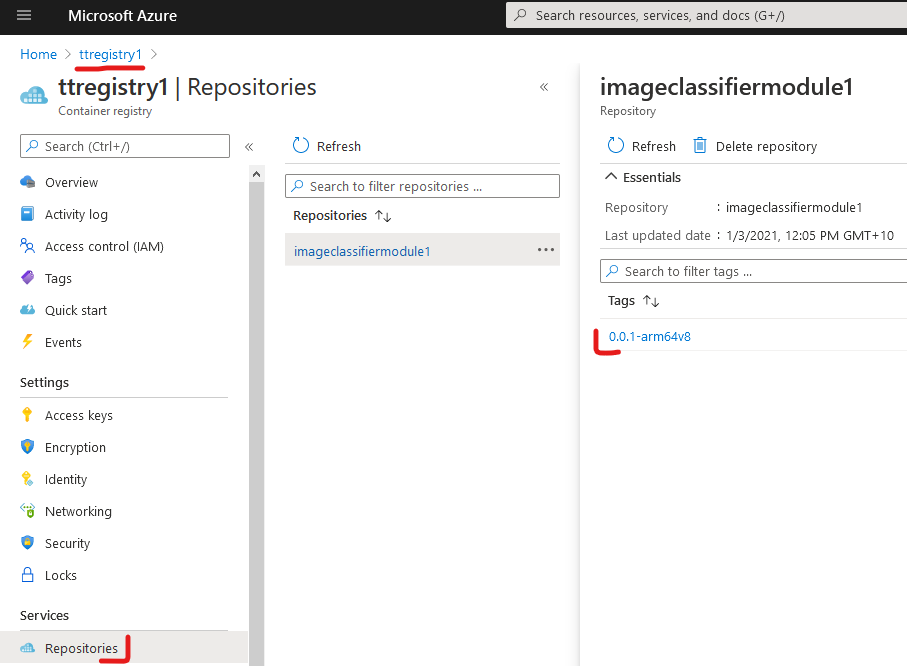
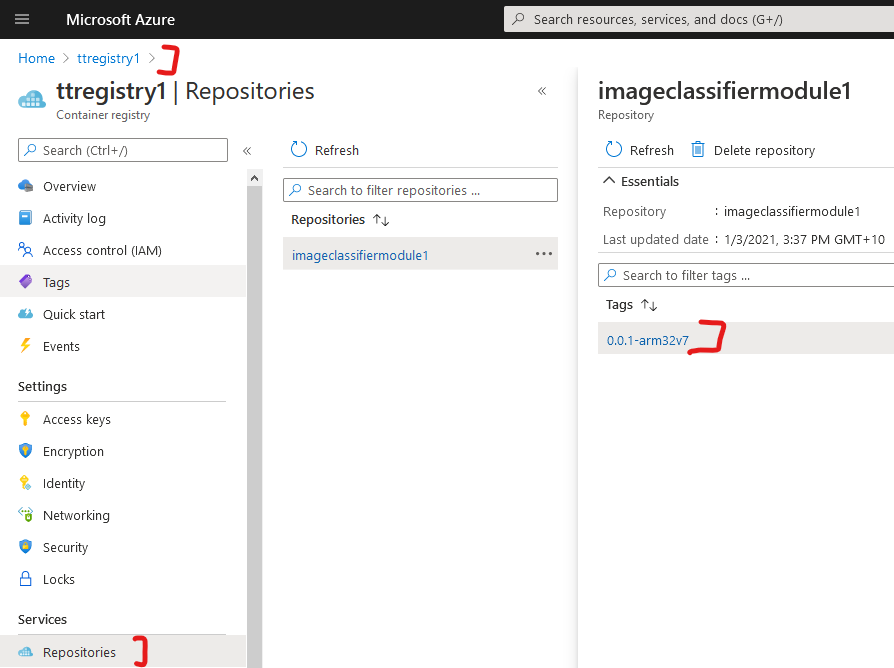
Fixing 64-bit vs 32-bit

diff --git a/README.md b/README.md
@@ -409,14 +409,19 @@ Based on [Create a new module project](https://docs.microsoft.com/en-us/azure/io
       armv7l
       ```
       If it's *armv7l* then the OS is 32-bit
-   2. In Command palette find *Azure IoT Edge: Set Default Target Platform for Edge Solution* and set it to, for RPi 4, to *arm64v8*
-6. Open *deployment.template.json* and examine *moduleContent->$edgeAgent->properties.desired->modules*
+   2. In Command palette find *Azure IoT Edge: Set Default Target Platform for Edge Solution* and set it to, for RPi 4, to *arm32v7*
+6. In Dockerfile.arm32v7 change the first line from 
+   `FROM mcr.microsoft.com/dotnet/core/sdk:3.1-buster-arm32v7 AS build-env`
+   to 
+   `FROM mcr.microsoft.com/dotnet/core/sdk:3.1-buster AS build-env`\
+   More details in [github](https://github.com/Azure/iotedge/issues/3353). 
+7. Open *deployment.template.json* and examine *moduleContent->$edgeAgent->properties.desired->modules*
    There will be to modules there, because *SimulatedTemperatureSensor* is added by default to template solutions.\
    ![Two default modules](/help/images/CreatingModule_2_modules.png "Two default modules") 
-7. Delete *SimulatedTemperatureSensor* entries from *deployment.debug.template.json* and from *deployment.template.json*. Delete it from modules and routes - 4 elements need to be deleted.\
+8. Delete *SimulatedTemperatureSensor* entries from *deployment.debug.template.json* and from *deployment.template.json*. Delete it from modules and routes - 4 elements need to be deleted.\
    ![Deleting SimulatedTemperatureSenson](/help/images/CreatingModule_deleting_SimulatedTemperatureSensor.png "Deleting SimulatedTemperatureSensor")
-8. Have a look at the C# source code: *raspberry_pi_project_1\module1\ImageClassifierSolution1\modules\ImageClassifierModule1\Program.cs* and follow [Review the sample code](https://docs.microsoft.com/en-us/azure/iot-edge/tutorial-develop-for-linux?view=iotedge-2018-06#review-the-sample-code)
-9.  Add a direct method for easy testing. At the end of the `Init` method add
+9.  Have a look at the C# source code: *raspberry_pi_project_1\module1\ImageClassifierSolution1\modules\ImageClassifierModule1\Program.cs* and follow [Review the sample code](https://docs.microsoft.com/en-us/azure/iot-edge/tutorial-develop-for-linux?view=iotedge-2018-06#review-the-sample-code)
+10. Add a direct method for easy testing. At the end of the `Init` method add
    ```c#
       await ioTHubModuleClient.SetMethodHandlerAsync("alive", AliveHandler, ioTHubModuleClient);
    }
@@ -432,6 +437,7 @@ Based on [Create a new module project](https://docs.microsoft.com/en-us/azure/io
       return Task.FromResult(response);
    }
    ``` 
+   
 ## Build, push, deploy, test
 
 1. Sign into Docker
@@ -453,33 +459,47 @@ Based on [Create a new module project](https://docs.microsoft.com/en-us/azure/io
 2. Right-click `deployment.template.json` and select build and push.\
    ![Build and push](/help/images/CreatingModule_builld_and_push.png "Build and push")\
    This process is slow when it runs for the first time.\
+   If the process errors out with `#11 1.679 A fatal error occurred, the folder [/usr/share/dotnet/host/fxr] does not contain any version-numbered child folders` then it's likely it is a issue with build machine vs target machien architecture. Check architecture steps above and [github](https://github.com/Azure/iotedge/issues/3353). 
    The terminal output looks like this:
    ```powershell
-   PS C:\dev\raspberry_pi_project_1\module1\ImageClassifierSolution1> docker build  --rm -f "c:\dev\raspberry_pi_project_1\module1\ImageClassifierSolution1\modules\ImageClassifierModule1\Dockerfile.arm64v8" -t ttregistry1.azurecr.io/imageclassifiermodule1:0.0.1-arm64v8 "c:\dev\raspberry_pi_project_1\module1\ImageClassifierSolution1\modules\ImageClassifierModule1" ; if ($?) { docker push ttregistry1.azurecr.io/imageclassifiermodule1:0.0.1-arm64v8 }
-   [+] Building 333.6s (16/16) FINISHED
-   => [internal] load build definition from Dockerfile.arm64v8                                       0.2s 
-   => => transferring dockerfile: 453B                                                               0.0s 
-   => [internal] load .dockerignore                                                                  0.2s 
-   => => transferring context: 56B                                                                   0.0s 
-   => [internal] load metadata for mcr.microsoft.com/dotnet/core/runtime:3.1-buster-slim-arm64v8     7.4s 
-   => [internal] load metadata for mcr.microsoft.com/dotnet/core/sdk:3.1-buster-arm64v              83.6s 
-   => [stage-1 1/4] FROM mcr.microsoft.com/dotnet/core/runtime:3.1-buster-slim-arm64v8@sha256:5e2794087a04b4c7db331cad5c394c07aa12b54895a32aa71f8789075df2afdc        73.2s 
-   => => resolve mcr.microsoft.com/dotnet/core/runtime:3.1-buster-slim-arm64v8@sha256:5e2794087a04b4c7db331cad5c394c07aa12b54895a32aa71f8789075df2afdc                 0.0s 
-   => => sha256:5e2794087a04b4c7db331cad5c394c07aa12b54895a32aa71f8789075df2afdc 1.16kB / 1.16kB     0.0s 
-   (...)
-   => => extracting sha256:c5a03329e69979c6a5979123a157a937837a969677bf126e4d1ededb39300295          0.8s 
-   => [stage-1 2/4] WORKDIR /app                                                                     2.0s 
-   => [build-env 2/6] WORKDIR /app                                                                   1.7s 
-   => [build-env 3/6] COPY *.csproj ./                                                               0.2s 
-   => [build-env 4/6] RUN dotnet restore                                                           132.8s 
-   => [build-env 5/6] COPY . ./                                                                      0.1s 
-   => [build-env 6/6] RUN dotnet publish -c Release -o out                                          98.1s 
-   => [stage-1 3/4] COPY --from=build-env /app/out ./                                                0.2s 
-   => [stage-1 4/4] RUN useradd -ms /bin/bash moduleuser                                             0.6s
-   => exporting to image                                                                             0.2s 
-   => => exporting layers                                                                            0.2s
-   => => writing image sha256:9c1bd97151d1f71a719c3c609a8a1e5c5de9d28140c4aecdfdecaf6d2d388211       0.0s 
-   => => naming to ttregistry1.azurecr.io/imageclassifiermodule1:0.0.1-arm64v8                       0.0s 
+   PS C:\dev\raspberry_pi_project_1\module1\ImageClassifierSolution1> docker build  --rm -f "c:\dev\raspberry_pi_project_1\module1\ImageClassifierSolution1\modules\ImageClassifierModule1\Dockerfile.arm32v7" -t ttregistry1.azurecr.io/imageclassifiermodule1:0.0.1-arm32v7 "c:\dev\raspberry_pi_project_1\module1\ImageClassifierSolution1\modules\ImageClassifierModule1" ; if ($?) { docker push ttregistry1.azurecr.io/imageclassifiermodule1:0.0.1-arm32v7 }
+   [+] Building 318.9s (16/16) FINISHED
+   => [internal] load build definition from Dockerfile.arm32v7                                              0.1s 
+   => => transferring dockerfile: 445B                                                                      0.1s 
+   => [internal] load .dockerignore                                                                         0.1s 
+   => => transferring context: 34B                                                                          0.0s 
+   => [internal] load metadata for mcr.microsoft.com/dotnet/core/runtime:3.1-buster-slim-arm32v7            1.3s 
+   => [internal] load metadata for mcr.microsoft.com/dotnet/core/sdk:3.1-buster                             2.2s 
+   => [internal] load build context                                                                         0.1s 
+   => => transferring context: 869B                                                                         0.0s 
+   => [build-env 1/6] FROM mcr.microsoft.com/dotnet/core/sdk:3.1-buster@sha256:27df774804cbf186cd05d5d997078765aec2f78ca6f63499bd06a698e99ea46a  71.5s 
+   => => resolve mcr.microsoft.com/dotnet/core/sdk:3.1-buster@sha256:27df774804cbf186cd05d5d997078765aec2f78ca6f63499bd06a698e99ea46a             0.0s 
+   => => sha256:c0afb8e68e0bcdc1b6e05acaa713a6fe0d818086c596bd1ad99133665c4efe63 10.00MB / 10.00MB          7.5s 
+   => => sha256:27df774804cbf186cd05d5d997078765aec2f78ca6f63499bd06a698e99ea46a 1.80kB / 1.80kB            0.0s 
+   => => sha256:6c33745f49b41daad28b7b192c447938452ea4de9fe8c7cc3edf1433b1366946 50.40MB / 50.40MB         17.7s 
+   => => sha256:abac622402fa6b9845058d25fb32d012e9b2ca9b1a90030ca416e85ef01d8635 6.33kB / 6.33kB            0.0s 
+   => => sha256:d599c07d28e6c920ef615f4f9b5cd0d52eb106fcd20c3a7daef389f14edd4ef5 51.83MB / 51.83MB         27.5s 
+   => => sha256:cd684fb45e33f8fe269a51339ebf07095b27d5f6849ca0b0818466e4c8771333 13.70MB / 13.70MB         17.1s 
+   => => sha256:de420d01940e6b081b3eb27161941c265e42eae1a147cd35138cee926a3b249a 13.26MB / 13.26MB         32.8s 
+   => => extracting sha256:6c33745f49b41daad28b7b192c447938452ea4de9fe8c7cc3edf1433b1366946                 5.1s 
+   => => extracting sha256:ef072fc32a84ef237dd4fcc7dff2c5e2a77565f24d63977d0fa654a6d8512dd8                 1.2s 
+   => => extracting sha256:c0afb8e68e0bcdc1b6e05acaa713a6fe0d818086c596bd1ad99133665c4efe63                 0.9s 
+   => => extracting sha256:d599c07d28e6c920ef615f4f9b5cd0d52eb106fcd20c3a7daef389f14edd4ef5                 6.8s 
+   => => extracting sha256:cd684fb45e33f8fe269a51339ebf07095b27d5f6849ca0b0818466e4c8771333                 2.4s 
+   => => extracting sha256:516d2ff1a7c41ff0a6f3ec1f4e0cd9d8afda9e4406c68def2cfa39f28c3a1db3                19.8s 
+   => => extracting sha256:de420d01940e6b081b3eb27161941c265e42eae1a147cd35138cee926a3b249a                 1.6s 
+   => [stage-1 1/4] FROM mcr.microsoft.com/dotnet/core/runtime:3.1-buster-slim-arm32v7@sha256:cf16e40297f312d0bbcbb82e381366d9f4420709e23a2bf7cfea381f85374411     0.0s 
+   => CACHED [stage-1 2/4] WORKDIR /app                                                                     0.0s 
+   => [build-env 2/6] WORKDIR /app                                                                          4.7s 
+   => [build-env 3/6] COPY *.csproj ./                                                                      0.1s 
+   => [build-env 4/6] RUN dotnet restore                                                                  162.0s 
+   => [build-env 5/6] COPY . ./                                                                             5.2s 
+   => [build-env 6/6] RUN dotnet publish -c Release -o out                                                 71.0s 
+   => [stage-1 3/4] COPY --from=build-env /app/out ./                                                       0.2s 
+   => [stage-1 4/4] RUN useradd -ms /bin/bash moduleuser                                                    1.4s 
+   => exporting to image                                                                                    0.2s 
+   => => exporting layers                                                                                   0.2s 
+   => => naming to ttregistry1.azurecr.io/imageclassifiermodule1:0.0.1-arm32v7                              
    The push refers to repository [ttregistry1.azurecr.io/imageclassifiermodule1]
    db2fc4848a13: Pushed
    f02421fd1a6d: Pushed
@@ -490,7 +510,7 @@ Based on [Create a new module project](https://docs.microsoft.com/en-us/azure/io
    037e397fa13b: Pushed
    0.0.1-arm64v8: digest: sha256:93a1e47f057cabf2f05b1c4c6fb3f3c942c1869e445603f01086df8a440284ec size: 1790
    PS C:\dev\raspberry_pi_project_1\module1\ImageClassifierSolution1> 
-   ```
+   ```  
 1. (Optional) Confirm in the Azure portal that the module is there\
    ![Pushed module](/help/images/CreatingModule_in_container_registry.png "Pushed module")
 1. Find and open `module.json` and make a mental note that this is where module version is stored. 
